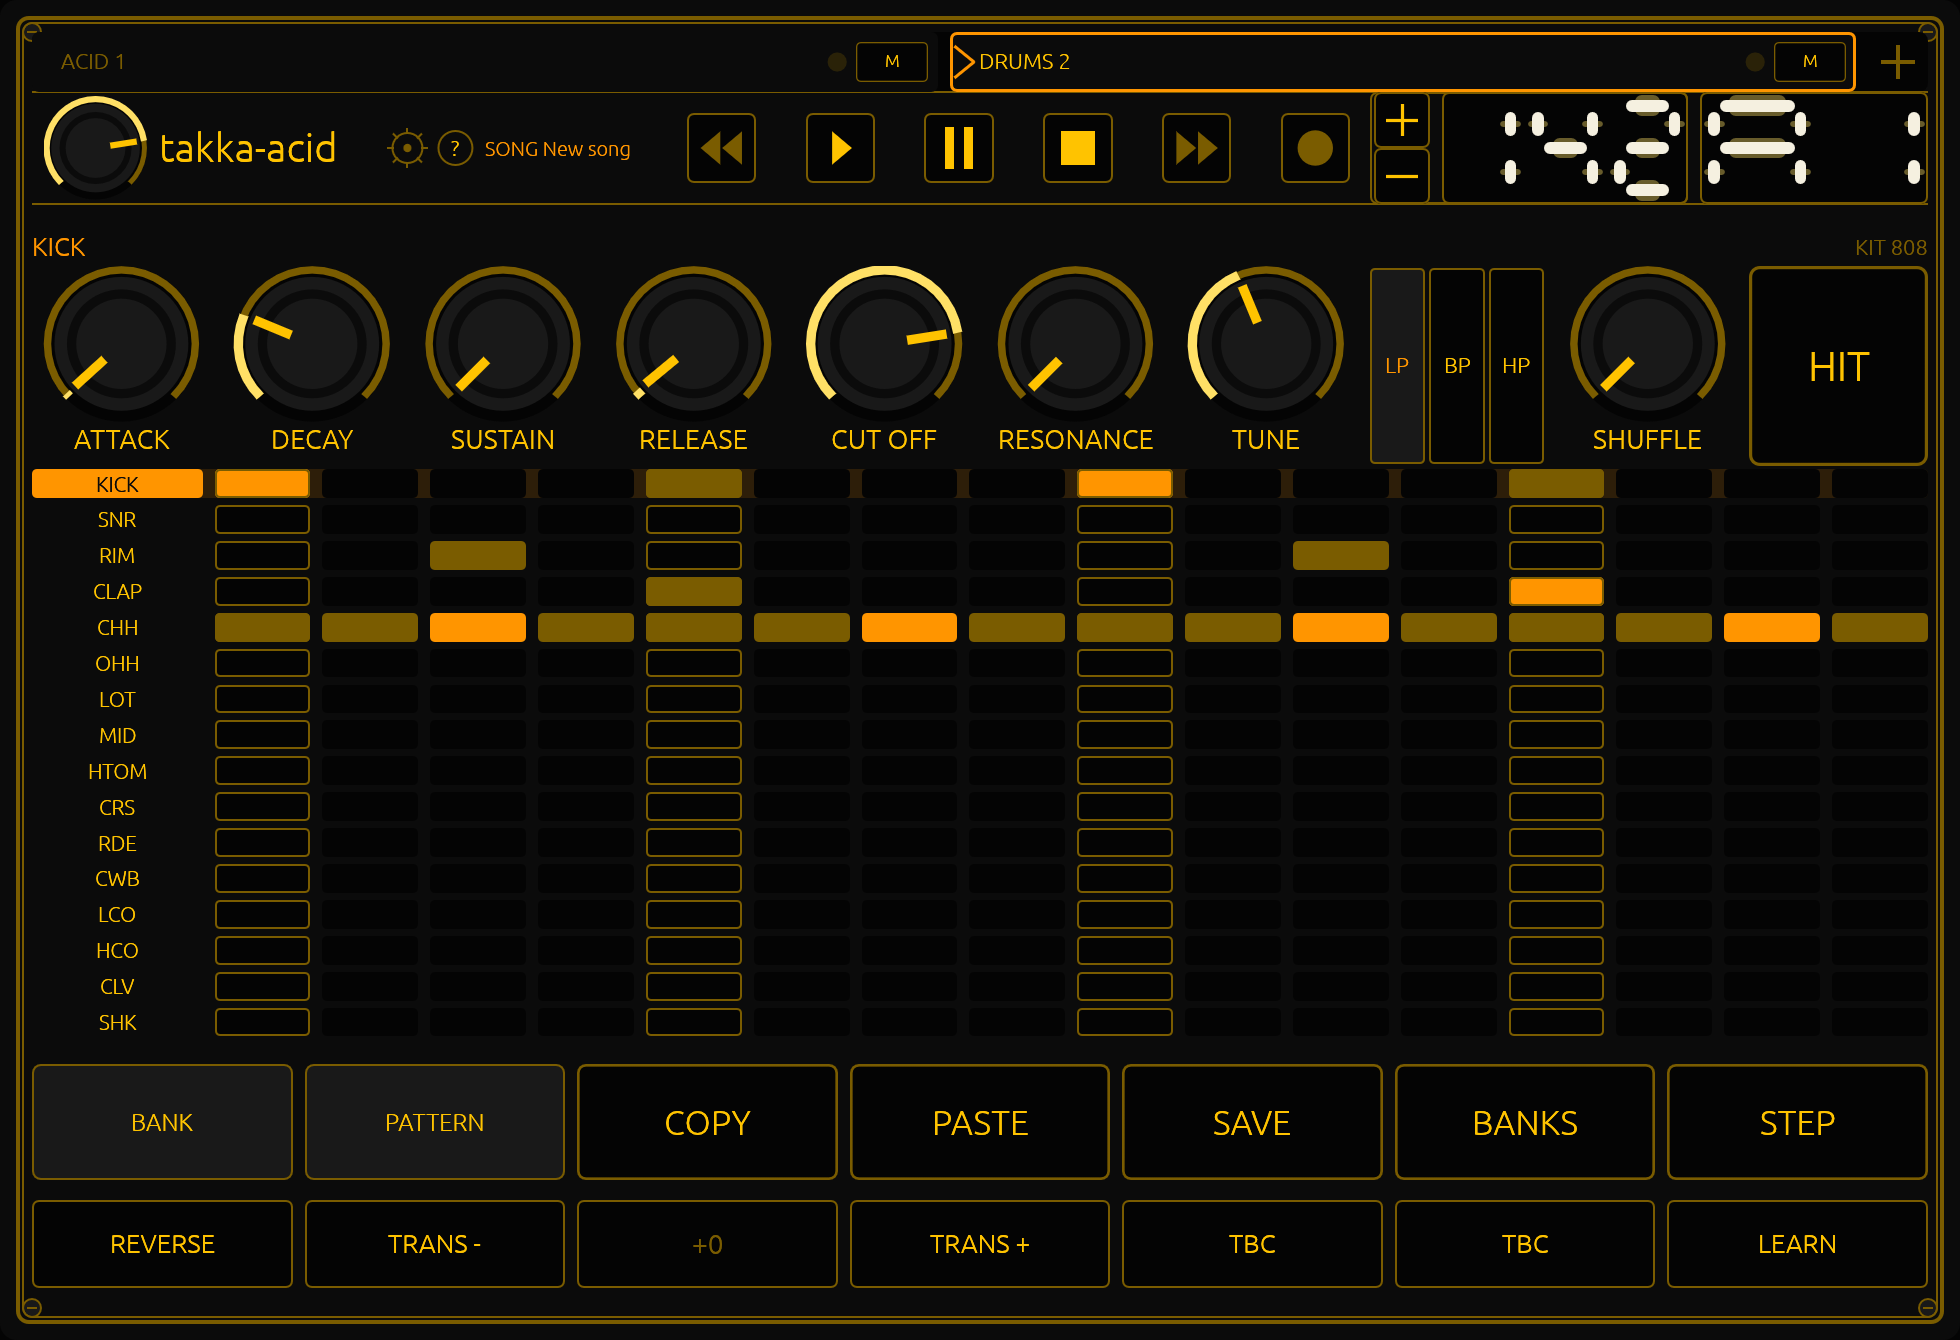
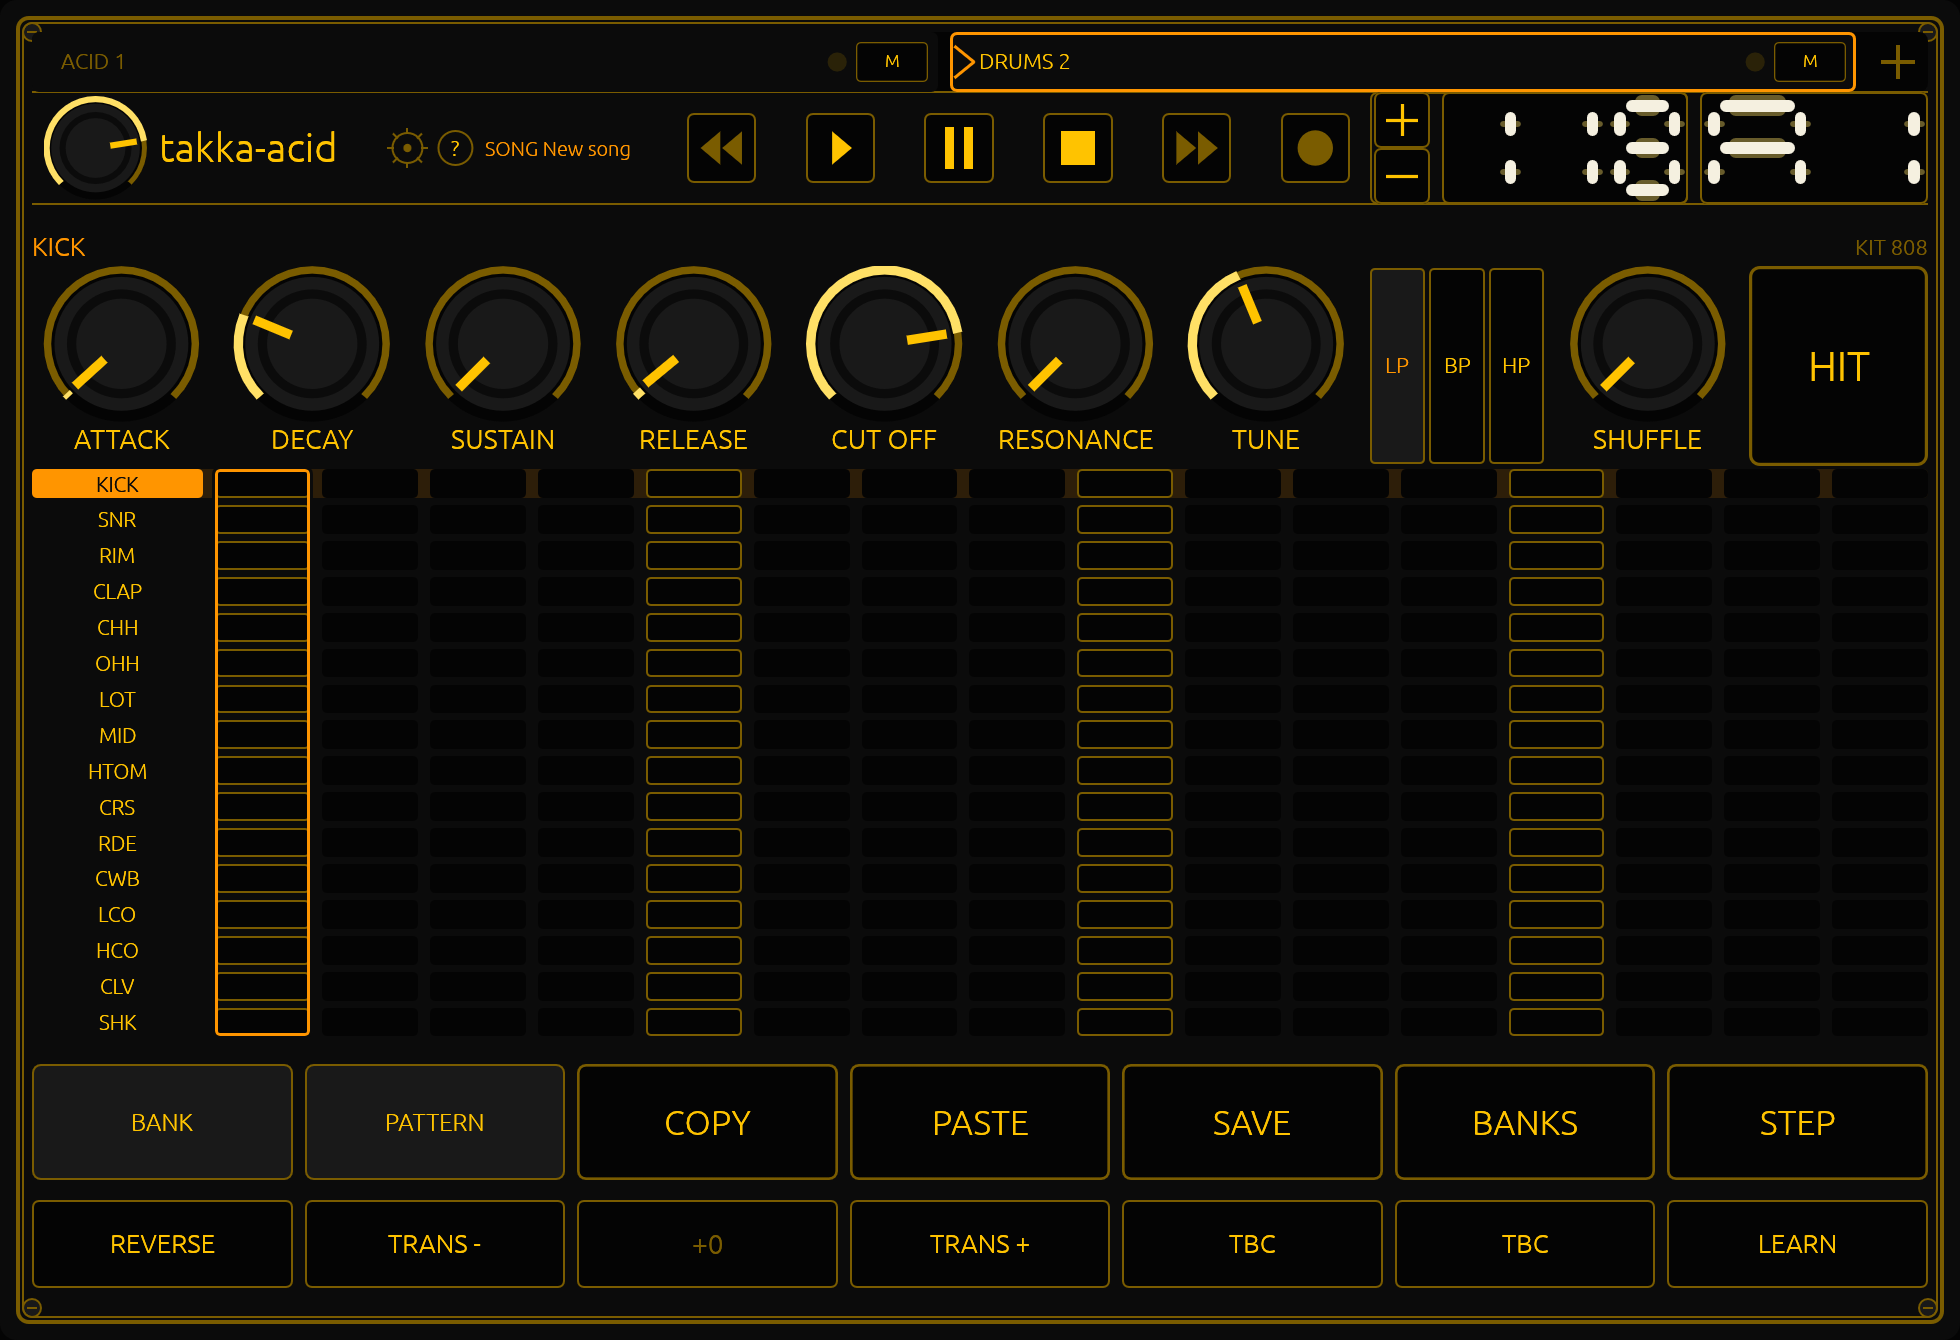
docs(guide): the drum step editor, and the picture of its column
Page 22 gains the step editor under the grid: left/right move the lit
column, enter writes the selected voice into that step silently, shift+enter
is the accent gesture, and the selection stays put because a step holds
sixteen voices. check.sh pins the two sentences.

drum-face.png is retaken with the column visible: Xvfb at 2200x1500, the
window checked at 1960x1340, a fresh data dir, + -> DRUMS, the notice waited
out and the pointer parked outside the window. img/README.md records the new
state and command, and the session recipe is back in the order that can be
performed (F3's browser shields the panel, so BANKS comes first).

Plan: plans/phase 4/06-the-drum-step-editor.md (Task 3)

diff --git a/docs/guide/src/img/README.md b/docs/guide/src/img/README.md
@@ -27,10 +27,14 @@ the build: the pictures are committed PNGs, and this note is what makes them rep
 - **The two drum-machine pictures** (`drum-face.png`, `kit-browser.png`) were retaken on 2026-11-20, from a session of their own:
   `TAKKA_ACID_DATA_DIR=/tmp/takka-guide-51`, emptied first, on `Xvfb :88 -screen 0 2200x1500x24` (the screen must be at least
   the design size doubled — check `xdotool getdisplaygeometry` before trusting a grab), the same scale factor and software GL.
-  The app was launched on a first run and then driven: `+` → `DRUMS` added `DRUMS 2`, which arrives on `808` (so the face reads
-  `KIT 808` and the browser `NOW: 808 - READ ONLY`), then `BANKS` → `Hard Techno Acid` twice loaded that demo's drum bank into it
-  (the session was unsaved, so the row asked first), and `F3` → the card's `KIT` row opened the browser. No device was saved, so
-  both pictures show a first run's rack with one extra machine on it.
+  The app was launched on a first run and then driven: `+` → `DRUMS` added `DRUMS 2`, which arrives on `808` (so the browser reads
+  `NOW: 808 - READ ONLY`), then `BANKS` → `Hard Techno Acid` twice loaded that demo's drum bank into it (the session was unsaved,
+  so the row asked first), and `F3` → the card's `KIT` row opened the browser, which is where `kit-browser.png` comes from. No
+  device was saved, so that picture shows a first run's rack with one extra machine on it. **`drum-face.png` was retaken on
+  2026-11-20 in the step-editor round** (`TAKKA_ACID_DATA_DIR=/tmp/takka-guide-06`, `Xvfb :87 -screen 0 2200x1500x24`): `+` →
+  `DRUMS`, the notice waited out, the pointer parked outside the window — so the picture shows the column that round added, on a
+  face with no bank loaded. The column sits on step 1, which is also a beat-framed column; the stroke is full height where the
+  frame is per cell, so the two read apart in the picture.
 
 ## The images
 
@@ -44,7 +48,7 @@ the build: the pictures are committed PNGs, and this note is what makes them rep
 | `img/device-card.png` | the device card for `ACID 1`: `COLOUR BLACK`, one port, `MUTE OFF` | `F3` |
 | `img/picker.png` | the picker: the `ACID` and `DRUMS` rows and `NAMES AND EXTRA DEVICES ARE NOT SAVED YET` | click `+` at the strip's right end |
 | `img/theme-list.png` | the card for `ACID 1` with the theme list open over it, the dot on `BLACK`, eleven of the twenty-two rows and the scroll thumb | `F3`; click `COLOUR`; park the pointer away from the knobs before grabbing, or their tooltip lands in the picture |
-| `img/drum-face.png` | the drum machine's face: `DRUMS 2` selected, `KICK` the selected voice, the Hard Techno Acid drum bank's groove in the grid, the seven voice dials, `LP | BP | HP`, `SHUFFLE` and `HIT`, and `KIT 808` at the right-hand end of the caption line above the dials | from the picker: click `+`, click `DRUMS`, then `BANKS` and the `Hard Techno Acid` row twice (the session is unsaved), and wait for the notice to clear before grabbing |
+| `img/drum-face.png` | the drum machine's face: `DRUMS 2` selected, `KICK` the selected voice, the grid empty with **the first step's column lit** — the step a key writes to — the seven voice dials, `LP | BP | HP`, `SHUFFLE` and `HIT`, and `KIT 808` at the right-hand end of the caption line above the dials | from the picker: click `+`, click `DRUMS`, wait for the notice to clear, and park the pointer outside the window (a hover tooltip would land in the picture). Retaken in the drum step-editor round, so the picture shows the selection the round added; the pattern is left empty on purpose, as a first run's drum machine is |
 | `img/kit-browser.png` | the kit browser: `FACTORY` with `808`, `909` and `Acoustic`, each `- READ ONLY`, `MY KITS` under them and empty, `NOW: 808 - READ ONLY` — the kit a drum machine arrives on | `F3` on the drum device; click the card's `KIT` row |
 | `img/two-devices.png` | two devices, `ACID 1` black and selected, `ACID 2` on `FESTIVAL CITRUS` | from the picker, click `ACID`; `ctrl+2`; `F3`; click `COLOUR`; click the `FESTIVAL CITRUS` row; `Escape`; `ctrl+1` |
 | `img/strip.png` | the same strip, cropped: a black cell, a teal one, and `+` | `-crop 1960x76+0+24` in the state above |

diff --git a/plans/phase 4/06-the-drum-step-editor.md b/plans/phase 4/06-the-drum-step-editor.md
@@ -203,4 +203,22 @@ becoming per device; a step's length or a per-step edit beyond the hit and its a
       the P2s: `PanelState::selected`'s doc, `a_card_is_up`'s list and `Handled::Refused`'s doc now name the drum face's step
       move and write; the unit test is renamed for the step and the write; and the refused-arrow assertion also pins that the
       selection did not move.
-- [ ] Task 3 —
+- [x] **Task 3 — the book and the picture.** Page 22's grid section now says the lit column, `left`/`right`, `enter` and
+      `shift+enter`, the silent write, the 303's walk-on that this face deliberately does not do, and `HIT`/`h` beside it — on
+      top of Task 2's three sentence fixes (page 15's four-keys paragraph, page 22's *No notes* bullet, page 20's `left`/`right`
+      and `enter` rows). `check.sh` pins `move the selected step` and `writes the selected voice into it` beside the two drum
+      pins from the last round. **`drum-face.png` retaken** on `Xvfb :87 -screen 0 2200x1500x24` (geometry checked first,
+      `2000 1400` or better, then the window at `1960x1340`) with `TAKKA_ACID_DATA_DIR=/tmp/takka-guide-06`, empty: `+` →
+      `DRUMS`, the notice waited out, the pointer parked outside the window. The picture shows the round's change — the first
+      step's column lit — and its `img/README.md` row records the new state and command, including why the grid is empty (a
+      first run's drum machine has no bank; the earlier picture's demo bank is no longer part of it). Looked at before keeping:
+      the column is visible, no tooltip and no notice are in the frame. Gates: `cargo test --workspace` **892**, clippy
+      `-D warnings`, `fmt --check`, `./docs/guide/check.sh` ok.
+      **Review: BLOCK on one Important and two P2s, all actioned.** The Important was the session recipe I had reordered in
+      `img/README.md`: opening the kit browser with `F3` puts its shield over the panel, so a later `BANKS` click would close the
+      browser instead of opening the bank browser — the steps are back in their performable order, the "both pictures" sentence
+      is scoped to `kit-browser.png`, and the retake carries its date. Of the P2s: page 22 said "the `HIT` key is the one to
+      reach for when the bar is stopped", which implies a difference between `HIT` and `h` that the code does not have (they are
+      one audition path), so it now says either of them plays the voice with the bar stopped; and the reviewer's note that the
+      column sits on step 1, which is also a beat-framed column, is recorded in the picture's row rather than retaken — the
+      full-height stroke and the per-cell frame read apart.

diff --git a/plans/phase 4/00-phase-4.md b/plans/phase 4/00-phase-4.md
@@ -17,10 +17,10 @@ same bar, banks, transport and themes. Rounds live here as `NN-topic.md`, one pe
   walk of the selection make no sound; `HIT` is how a voice is heard.
 - [`05-the-hit-key`](05-the-hit-key.md) — the keyboard's `HIT`: on a drum face `h` strikes the selected voice, and the press filter
   now asks which face is showing, because the same `h` is one of the 303's notes.
-- [`06-the-drum-step-editor`](06-the-drum-step-editor.md) — **planned, next.** The drum grid gains the 303's step editor: plain
-  `left` / `right` move a lit column, `enter` writes the selected voice into that step (silently; `shift+enter` accents), and
-  the selection does not advance on a write.
-- [`07-the-drum-keys-and-tooltips`](07-the-drum-keys-and-tooltips.md) — **planned, after 06.** The filter takes `L` / `B` / `P`,
+- [`06-the-drum-step-editor`](06-the-drum-step-editor.md) — the drum grid gains the 303's step editor: plain `left` / `right`
+  move a lit column, `enter` writes the selected voice into that step (silently; `shift+enter` accents), and the selection does
+  not advance on a write.
+- [`07-the-drum-keys-and-tooltips`](07-the-drum-keys-and-tooltips.md) — **planned, next.** The filter takes `L` / `B` / `P`,
   each key underlines the letter that presses it (`H` on `HIT`), every drum control gets a tooltip, and the help card learns
   the drum face's keys.
 
@@ -30,7 +30,7 @@ same bar, banks, transport and themes. Rounds live here as `NN-topic.md`, one pe
 **Gate:** unchanged from phases 1–3 — the three workspace commands, `docs/guide/check.sh` when the book moves, and a fresh
 subagent review before every commit (`AGENTS.md`).
 
-**State: complete, 2026-11-19; four rounds since, two planned (06, 07).** All ten tasks are committed on `phase-4` (local
+**State: complete, 2026-11-19; five rounds since, one planned (07).** All ten tasks are committed on `phase-4` (local
 only — nothing is pushed). The branch is the whole round: `cargo test --workspace` **870**, `cargo clippy --workspace
 --all-targets -- -D warnings`, `cargo fmt --check` and `./docs/guide/check.sh` all green at its head, and each task's own
 mutation run is recorded in the plan's `## Progress`. `SAVE_VERSION` is **11**; the rack round takes **12**. The whole-branch

diff --git a/docs/guide/src/22-the-drum-machine.md b/docs/guide/src/22-the-drum-machine.md
@@ -40,6 +40,13 @@ keys, because a card is modal.
 **`h`** strikes the selected voice — the same hit as `HIT` — so a kit can be walked with the arrows and heard with one key. A
 card does not stop it: a hit is a sound, not an edit. The rest of the letters stay silent here; they are the 303's notes.
 
+The step is edited the same way, one step over: **`left` / `right` move the selected step**, a lit column across the sixteen
+rows, and **`enter` writes the selected voice into it** — silently, as a 303 step is written without a sound; a second `enter`
+takes the hit off again. **`shift+enter`** is the grid's accent gesture, so an empty cell takes an accented hit, a plain strike
+is accented and an accented one is taken off. The selection stays where it is after a write, unlike the 303's `STEP`, because a
+step here holds sixteen voices and a hand writes several before moving on. `HIT` and `h` still play the voice without writing
+it, either of them with the bar stopped.
+
 ## The dials
 
 The seven knobs stay where the 303 puts them and are **the selected voice's**, not the machine's:
